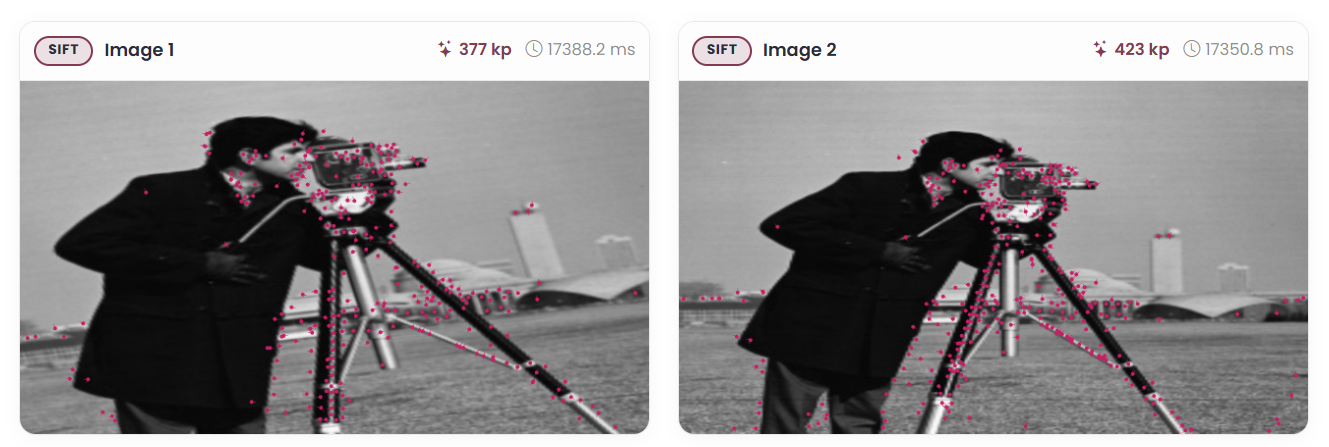
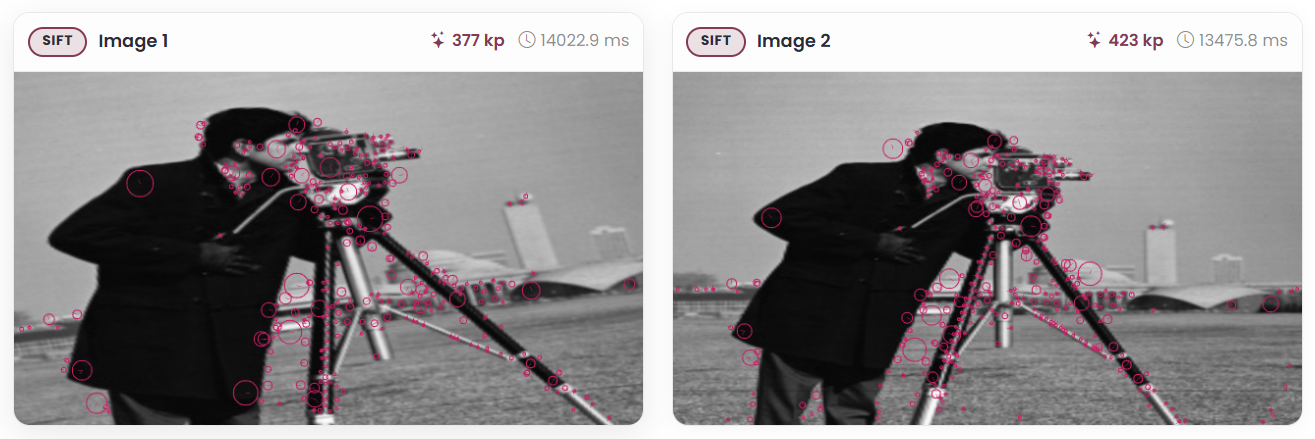
added hollow circles

diff --git a/Backend/operations/sift.cpp b/Backend/operations/sift.cpp
@@ -22,6 +22,33 @@ static std::vector<std::vector<float>> to_float(const ImageData& img) {
     return out;
 }
 
+static void draw_hollow_circle_sift(ImageData& img, int cx, int cy, int radius, int thickness, uint8_t r, uint8_t g, uint8_t b) {
+    if (radius <= 0) return;
+    thickness = std::max(1, thickness);
+
+    int outer2 = radius * radius;
+    int inner = std::max(0, radius - thickness);
+    int inner2 = inner * inner;
+
+    for (int y = -radius; y <= radius; y++) {
+        for (int x = -radius; x <= radius; x++) {
+            int d2 = x * x + y * y;
+            if (d2 <= outer2 && d2 >= inner2) {
+                int px = cx + x;
+                int py = cy + y;
+                if (px >= 0 && px < img.width && py >= 0 && py < img.height) {
+                    int idx = (py * img.width + px) * img.channels;
+                    if (img.channels >= 3) {
+                        img.data[idx] = r;
+                        img.data[idx + 1] = g;
+                        img.data[idx + 2] = b;
+                    }
+                }
+            }
+        }
+    }
+}
+
 // ================================================================
 //  GAUSSIAN BLUR
 // ================================================================
@@ -462,7 +489,8 @@ SIFTResult extract_sift_features(const ImageData& img) {
     // ---- visualise ----
     ImageData out = img;
     for (const auto& kp : kps) {
-        draw_circle(out, (int)kp.x, (int)kp.y, 4, 199, 30, 100);
+        int radius = std::max(4, (int)std::lround(kp.scale));
+        draw_hollow_circle_sift(out, (int)kp.x, (int)kp.y, radius, 2, 199, 30, 100);
         int x2 = (int)(kp.x + 8.0f * std::cos(kp.orientation));
         int y2 = (int)(kp.y + 8.0f * std::sin(kp.orientation));
         draw_line(out, (int)kp.x, (int)kp.y, x2, y2, 199, 30, 100);
